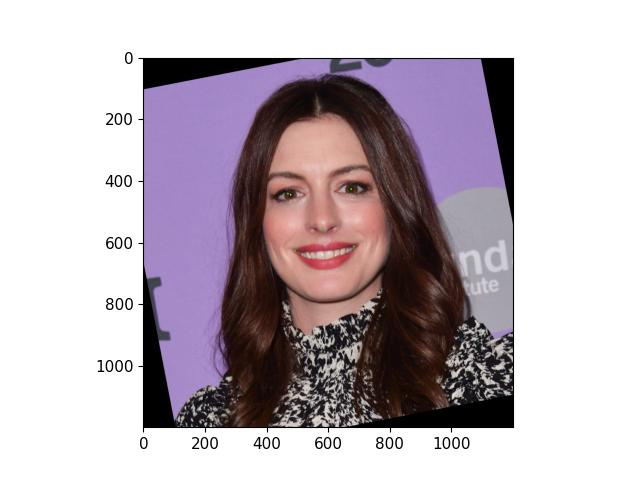
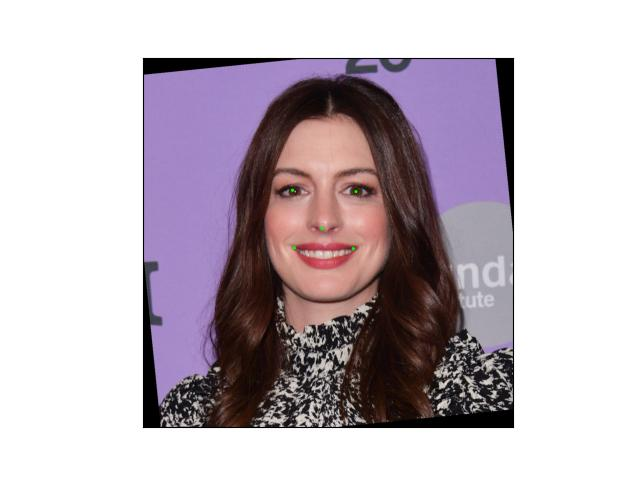
remove ticks

diff --git a/yolo_face_align.py b/yolo_face_align.py
@@ -16,7 +16,7 @@ class Yolo_align:
             for i in lm[0]:
                 x = i[0]
                 y = i[1]
-                original_img = cv2.circle(original_img, (x, y), 3, (0,255,0), -1)
+                original_img = cv2.circle(original_img, (x, y), 5, (0,255,0), -1)
         lm = lm[0]
         left_eye, right_eye = lm[0], lm[1]
         nose = lm[2]
@@ -68,14 +68,17 @@ class Yolo_align:
         original_img = Image.fromarray(original_img)
         aligned_img = np.array(original_img.rotate(angle))[...,::1]
         plt.imshow(cv2.cvtColor(aligned_img, cv2.COLOR_BGR2RGB))
+        plt.xticks([])
+        plt.yticks([])
         plt.savefig(path.split('.')[0] + '_aligned.jpg')
         return aligned_img
     
 
 
+
 if __name__=='__main__':
     aligner = Yolo_align()
-    global path;    path = 'matthew_mcconaughey.jpg'
+    global path;    path = 'anne_hathaway.jpg'
     start_time = time.time()
     original_img=cv2.imread(path)#np.array(Image.open('anne.jpg'))
     aligner.rotate(original_img=original_img)
